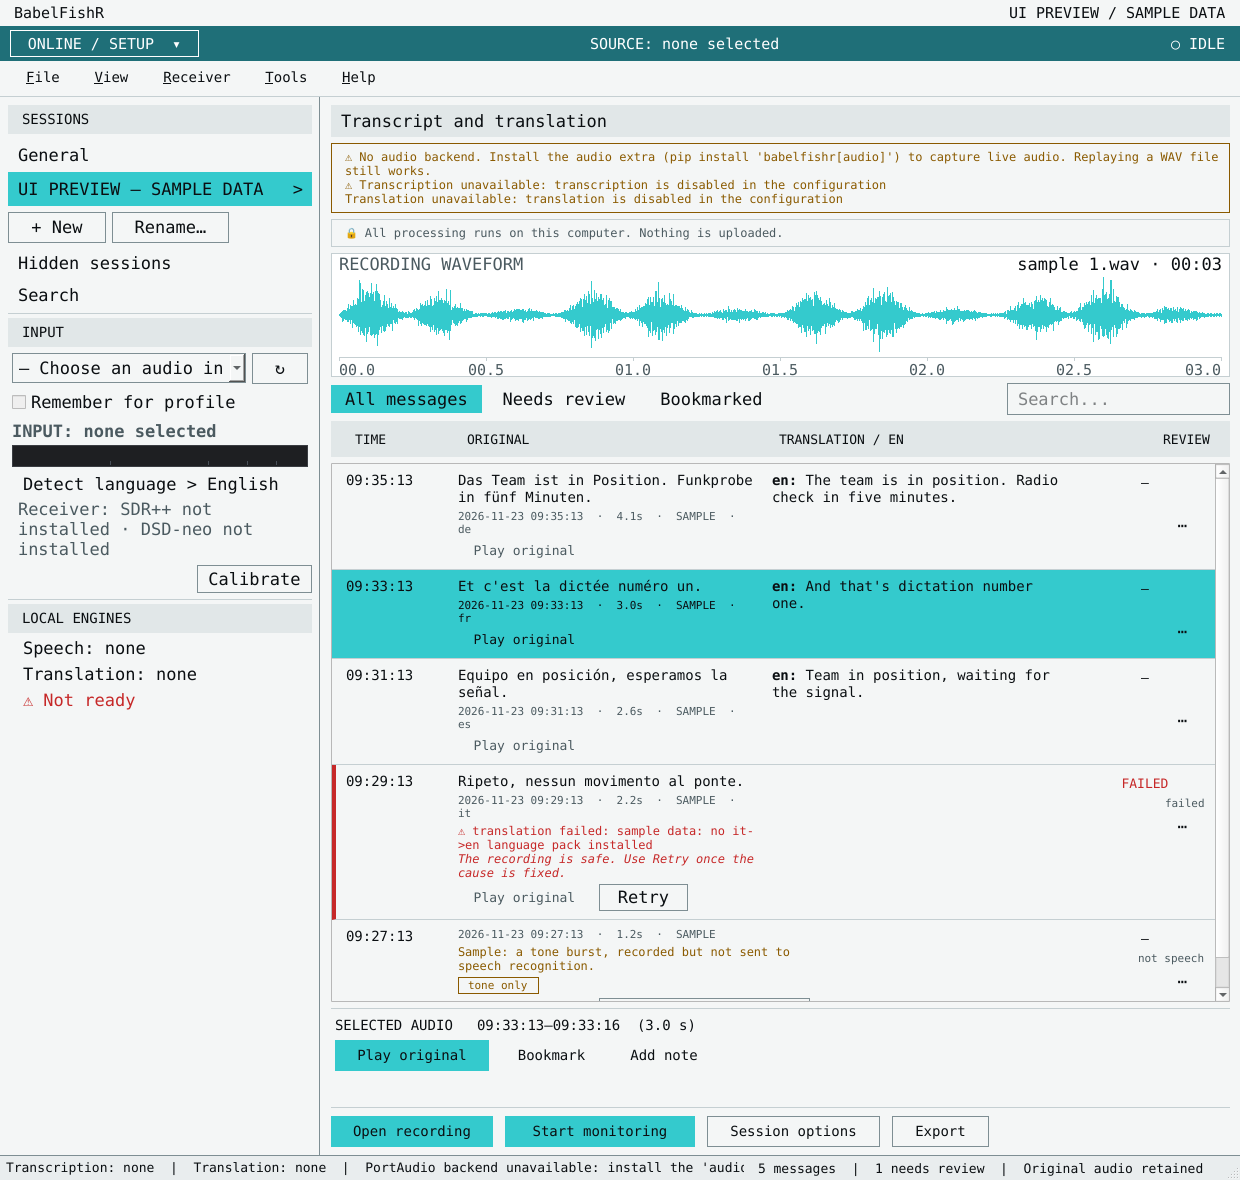
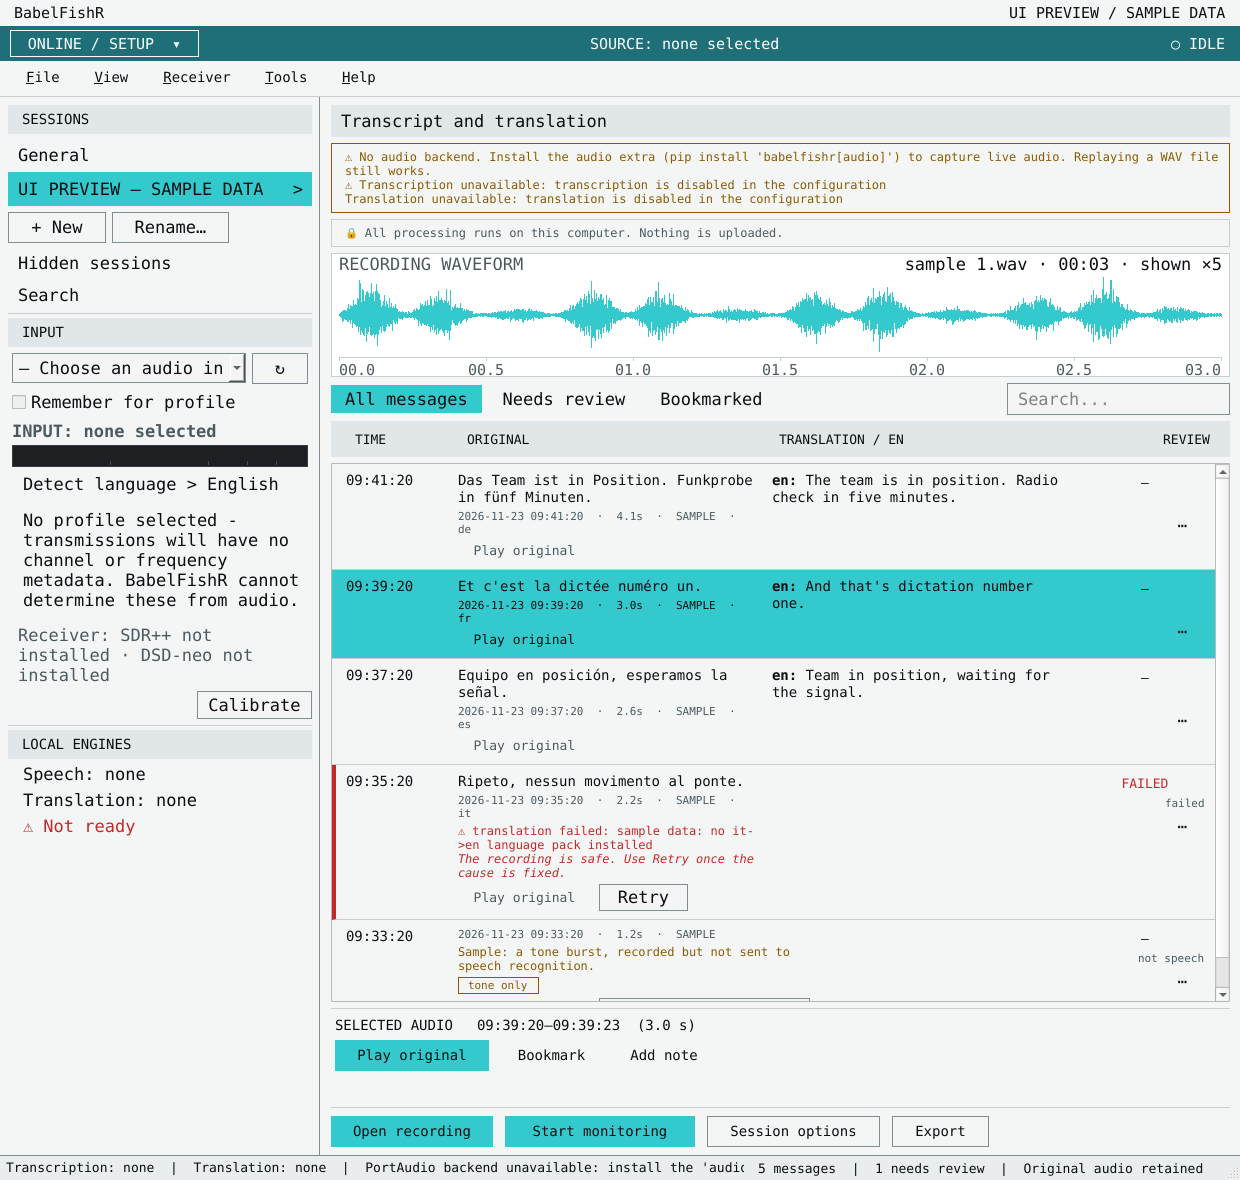
v5 console: fix the reviewer's findings (CANDIDATE: awaiting Mac validation)
A separate reviewer read fd4a046. Every confirmed finding is fixed here, each
with a test that fails without its fix.

1. MAJOR. Clicking a row's transcript did not select the row: the selectable
   label took the click and the focus, so Selected Audio and the waveform
   stayed on another message, and Play original played that one. The row now
   filters its children's left-button presses and focus-ins.
2. MAJOR. With Session Options closed by default, the radio-profile line was
   out of sight, including the "No profile selected - no channel or
   frequency metadata" warning. It is now mirrored in the left pane's INPUT
   section.
3. Pressing the filter already on screen rebuilt the view, which stopped
   playback and dropped the selection. It is now a no-op, and the buttons are
   re-synced even when the store is closing.
4. After TimelineView.set_playback(), the waveform and the panel still
   followed the old controller. TimelineView now emits playbackReplaced and
   the window follows it.
5. The display gain (up to x20 above -40 dBFS) changed how loud a clip looked
   without saying so. The title now reads "shown xN" whenever a clip is
   drawn larger than recorded.
6. A WAV shorter than its header showed the header's duration and a partial
   drawing with no explanation. The title now says "file shorter than its
   header: N s readable".
7. _bookmarked_results had a clause for removed messages that could never
[…]

Changed region(s): [[0.0, 0.4271, 0.2452, 0.7017], [0.7968, 0.2136, 0.9806, 0.2441], [0.7355, 0.2136, 0.7661, 0.2441]]

diff --git a/babelfishr/ui/main_window.py b/babelfishr/ui/main_window.py
@@ -197,7 +197,7 @@ class MainWindow(QtWidgets.QMainWindow):
         # Navigation: the window's own menu bar, below the band as in the
         # approved layout. menuBar() returns this bar, so every menu, action
         # and shortcut is the same object as before.
-        self._nav_bar = QtWidgets.QMenuBar()
+        self._nav_bar = QtWidgets.QMenuBar(central)
         root.addWidget(self._nav_bar)
 
         # -- the two panes --------------------------------------------------
@@ -298,6 +298,14 @@ class MainWindow(QtWidgets.QMainWindow):
         self.language_line.setObjectName("paneLine")
         self.language_line.setAccessibleName("Languages")
         left_layout.addWidget(self.language_line)
+        # The radio profile - or the warning that there is none, so no
+        # channel or frequency is stamped - is always in view, not only in
+        # the Session Options panel.
+        self.profile_line = QtWidgets.QLabel("")
+        self.profile_line.setObjectName("paneLine")
+        self.profile_line.setWordWrap(True)
+        self.profile_line.setAccessibleName("Radio profile")
+        left_layout.addWidget(self.profile_line)
         self.receiver_line = QtWidgets.QLabel("")
         self.receiver_line.setObjectName("mutedLine")
         self.receiver_line.setWordWrap(True)
@@ -408,9 +416,8 @@ class MainWindow(QtWidgets.QMainWindow):
         self.timeline.restoreRequested.connect(self._on_restore_message)
         self.timeline.selectionChanged.connect(self._on_selection_changed)
         self.timeline.selectedUpdated.connect(lambda _id: self._refresh_selected_panel())
-        self.waveform.set_playback(self.timeline.playback)
-        self.timeline.playback.changed.connect(
-            lambda _affected: self._refresh_selected_panel())
+        self._follow_playback(self.timeline.playback)
+        self.timeline.playbackReplaced.connect(self._follow_playback)
         right_layout.addWidget(self.timeline, 1)
 
         # Session Options: the existing panel, shown by its button.
@@ -590,6 +597,22 @@ class MainWindow(QtWidgets.QMainWindow):
         self.selected_panel = panel
         return panel
 
+    def _follow_playback(self, controller) -> None:
+        """The waveform marker and Selected Audio follow whichever playback
+        controller the list is using - including one installed later."""
+        previous = getattr(self, "_followed_playback", None)
+        if previous is not None and previous is not controller:
+            try:
+                previous.changed.disconnect(self._on_playback_changed_for_panel)
+            except (RuntimeError, TypeError):
+                pass
+        self._followed_playback = controller
+        self.waveform.set_playback(controller)
+        controller.changed.connect(self._on_playback_changed_for_panel)
+
+    def _on_playback_changed_for_panel(self, _affected) -> None:
+        self._refresh_selected_panel()
+
     def _wire_pane_links(self) -> None:
         """Left-pane links run the real View actions, nothing of their own."""
         self.hidden_sessions_link.setChecked(
@@ -599,9 +622,19 @@ class MainWindow(QtWidgets.QMainWindow):
         self.show_hidden_sessions_action.toggled.connect(
             self.hidden_sessions_link.setChecked)
         self.search_link.clicked.connect(self._focus_search)
-        self.filter_all.clicked.connect(self.show_all_action.trigger)
-        self.filter_review.clicked.connect(self.review_action.trigger)
-        self.filter_bookmarked.clicked.connect(self._show_bookmarked)
+        self.filter_all.clicked.connect(
+            lambda: self._filter_clicked("thread", self.show_all_action.trigger))
+        self.filter_review.clicked.connect(
+            lambda: self._filter_clicked("review", self.review_action.trigger))
+        self.filter_bookmarked.clicked.connect(
+            lambda: self._filter_clicked("bookmarked", self._show_bookmarked))
+
+    def _filter_clicked(self, kind: str, show) -> None:
+        """Pressing the filter already on screen changes nothing - rebuilding
+        it would stop playback and drop the selection for no reason."""
+        if self._view_kind != kind:
+            show()
+        self._sync_filters()
 
     def _build_header(self, row: QtWidgets.QHBoxLayout) -> None:
         """The teal status band: operating mode, source, monitoring state."""
@@ -2284,6 +2317,9 @@ class MainWindow(QtWidgets.QMainWindow):
         line = f"{source_language} > {target}"
         if self.language_line.text() != line:
             self.language_line.setText(line)
+        profile = self.channel_label.text()
+        if self.profile_line.text() != profile:
+            self.profile_line.setText(profile)
         code = self.target_language_box.currentData() or ""
         heading = f"TRANSLATION / {code.upper()}" if code else "TRANSLATION"
         if self.translation_heading.text() != heading:
@@ -2509,8 +2545,8 @@ class MainWindow(QtWidgets.QMainWindow):
         self._sync_filters()
 
     def _bookmarked_results(self):
-        return [tx for tx in self.app.search("", bookmarked=True)
-                if self._showing_removed() or not getattr(tx, "hidden", False)]
+        # Store.search never returns removed messages; nor does this view.
+        return self.app.search("", bookmarked=True)
 
     def _focus_search(self) -> None:
         self.search_field.setFocus(QtCore.Qt.ShortcutFocusReason)

diff --git a/tests/test_ui_v5_console.py b/tests/test_ui_v5_console.py
@@ -306,3 +306,82 @@ def test_the_window_resizes_down_to_its_minimum_and_back(qt_app, console):
         pump(qt_app)
         assert not window.grab().isNull()
     assert window.minimumSizeHint().width() <= 1000
+
+
+# ---- reviewer findings (each failed before its fix) -----------------------------
+
+def test_clicking_a_transcript_selects_its_row(qt_app, console):
+    """The selectable transcript label takes the click itself; the row must
+    still become the selected one, or Play original plays another message."""
+    from PySide6.QtTest import QTest
+
+    window, _, made = console
+    window.timeline.select(made[1].id)
+    QTest.mouseClick(window.timeline.bubble(made[0].id).original_label,
+                     QtCore.Qt.LeftButton)
+    pump(qt_app)
+    assert window.timeline.selected_id == made[0].id
+
+
+def test_the_radio_profile_line_is_visible_with_session_options_closed(console):
+    window, _, _ = console
+    window._refresh_context_lines()
+    assert not window.setup_box.isVisible()
+    assert window.profile_line.isVisible()
+    assert window.profile_line.text() == window.channel_label.text()
+    assert window.profile_line.text(), "the profile (or its absence) is stated"
+
+
+def test_pressing_the_current_filter_keeps_playback_and_selection(qt_app, console,
+                                                                 monkeypatch):
+    window, _, made = console
+    window.timeline.select(made[0].id)
+    stopped = []
+    monkeypatch.setattr(window.timeline.playback, "stop", lambda: stopped.append(1))
+    window.filter_all.click()                  # already the view on screen
+    pump(qt_app)
+    assert window.timeline.selected_id == made[0].id
+    assert stopped == []
+    assert window.filter_all.isChecked()
+
+
+def test_a_replaced_playback_controller_is_followed(qt_app, console):
+    from babelfishr.ui.playback import PlaybackController
+
+    window, _, _ = console
+    replacement = PlaybackController(parent=window)
+    window.timeline.set_playback(replacement)
+    assert window.waveform._controller is replacement
+
+
+def test_the_waveform_title_admits_display_gain_and_a_short_file(qt_app, tmp_path):
+    import struct
+    import wave
+
+    from babelfishr.audio.wavefile import write_wav
+    from babelfishr.testing import speech_like
+    from babelfishr.ui.waveform import RecordingWaveform
+
+    quiet = write_wav(str(tmp_path / "quiet.wav"), speech_like(1.0, 48_000, level_dbfs=-30), 48_000)
+    widget = RecordingWaveform()
+    widget.show_recording("q", quiet)
+    assert widget.wait_until_loaded(10.0)
+    assert "shown ×" in widget.title_text(), widget.title_text()
+
+    # A header promising 8000 frames over 1000 frames of data.
+    short = tmp_path / "short.wav"
+    with wave.open(str(short), "wb") as handle:
+        handle.setnchannels(1)
+        handle.setsampwidth(2)
+        handle.setframerate(8000)
+        handle.writeframes(struct.pack("<1000h", *([1000] * 1000)))
+    data = bytearray(short.read_bytes())
+    data[40:44] = struct.pack("<I", 8000 * 2)            # data chunk size
+    short.write_bytes(bytes(data))
+    widget.show_recording("s", str(short))
+    widget.wait_until_loaded(10.0)
+    if widget.state == "ready":
+        assert "file shorter than its header" in widget.title_text(), widget.title_text()
+    else:
+        assert widget.state == "error"                   # refused outright is also honest
+    widget.clear()

diff --git a/babelfishr/ui/timeline.py b/babelfishr/ui/timeline.py
@@ -311,6 +311,7 @@ class TransmissionBubble(QtWidgets.QFrame):
         bar.addStretch(1)
         self.playback_bar.hide()
         grid.addWidget(self.playback_bar, 1, 1, 1, 3)
+        self._watch_children_for_selection()
 
         self.update_from(tx)
 
@@ -565,6 +566,20 @@ class TransmissionBubble(QtWidgets.QFrame):
             self.selectRequested.emit(self.tx.id)
         super().mousePressEvent(event)
 
+    def _watch_children_for_selection(self) -> None:
+        """A selectable transcript label or a button takes the click and the
+        focus itself, so the row never saw them: watch the children too."""
+        for child in self.findChildren(QtWidgets.QWidget):
+            child.installEventFilter(self)
+
+    def eventFilter(self, watched, event) -> bool:  # noqa: N802
+        kind = event.type()
+        if kind == QtCore.QEvent.FocusIn or (
+                kind == QtCore.QEvent.MouseButtonPress
+                and event.button() == QtCore.Qt.LeftButton):
+            self.selectRequested.emit(self.tx.id)
+        return False
+
     def focusInEvent(self, event: QtGui.QFocusEvent) -> None:  # noqa: N802
         self.selectRequested.emit(self.tx.id)
         super().focusInEvent(event)
@@ -755,6 +770,8 @@ class TimelineView(QtWidgets.QScrollArea):
     #: The selected row's transmission changed in place (bookmark, review,
     #: text): the same row, new content.
     selectedUpdated = QtCore.Signal(str)
+    #: set_playback() installed a different controller.
+    playbackReplaced = QtCore.Signal(object)
 
     def __init__(self, parent: Optional[QtWidgets.QWidget] = None):
         super().__init__(parent)
@@ -841,6 +858,7 @@ class TimelineView(QtWidgets.QScrollArea):
         controller.positionChanged.connect(self._on_playback_position)
         for bubble in self._bubbles.values():
             bubble._player = controller
+        self.playbackReplaced.emit(controller)
 
     def _on_playback_changed(self, affected) -> None:
         # Expanding or collapsing a control bar changes a bubble's height, so

diff --git a/babelfishr/ui/waveform.py b/babelfishr/ui/waveform.py
@@ -369,8 +369,18 @@ class RecordingWaveform(QtWidgets.QWidget):
         if not self.current_path:
             return ""
         name = os.path.basename(self.current_path)
-        if self.envelope is not None:
-            return f"{name} · {format_duration(self.envelope.duration_s)}"
+        env = self.envelope
+        if env is not None:
+            text = f"{name} · {format_duration(env.duration_s)}"
+            # Say what the drawing is not: the file's true level, or all of it.
+            if env.truncated and (self.max_frames is None
+                                  or env.analysed_frames < min(env.frames, self.max_frames)):
+                readable = env.analysed_frames / float(env.sample_rate or 1)
+                text += f" · file shorter than its header: {readable:.1f} s readable"
+            gain = env.display_gain
+            if gain > 1.05:
+                text += f" · shown \u00d7{gain:.0f}"
+            return text
         return name
 
     def sizeHint(self) -> QtCore.QSize:  # noqa: N802

diff --git a/tests/test_ui_waveform.py b/tests/test_ui_waveform.py
@@ -155,7 +155,11 @@ def test_ready_state_title_and_accessibility(widget, tmp_path):
     assert widget.wait_until_loaded(5)
     assert widget.state == "ready" and widget.current_tx_id == "tx1"
     assert widget.envelope.frames == int(12.4 * SR)
-    assert widget.title_text() == "clip_a.wav · 00:12"
+    title = widget.title_text()
+    assert title.startswith("clip_a.wav · 00:12")
+    # Drawn louder than recorded? The title says so (reviewer finding 5).
+    gain = widget.envelope.display_gain
+    assert ("shown \u00d7" in title) == (gain > 1.05), (title, gain)
     assert "clip_a.wav" in widget.accessibleDescription()
     assert "00:12" in widget.accessibleDescription()
 

diff --git a/docs/ui-preview/README.md b/docs/ui-preview/README.md
@@ -50,7 +50,7 @@ is sample data.
 | Monitor · Sessions · Models · Settings · Help | The app's real menus: **File · View · Receiver · Tools · Help** (see deviations). |
 | SESSIONS list | The named Sessions (the former tab row), drawn as a list. Rename, colours, context menu and hide/remove work as before. |
 | Saved sessions · Search | **Hidden sessions** (View ▸ Show hidden Sessions) and **Search** (focuses the search field). |
-| INPUT | The real input chooser and status, the `source > target` language line, the receiver status line, and Calibrate. |
+| INPUT | The real input chooser and status, the `source > target` language line, the radio profile (or the warning that none is selected, so no channel or frequency is recorded), the receiver status line, and Calibrate. |
 | LOCAL ENGINES | `Speech:` / `Translation:` as the app selected them, plus field readiness (click for the report). |
 | RECORDING WAVEFORM | The selected message's **own** recording, drawn from its PCM samples (see below). |
 | All messages · Needs review · Bookmarked · Search | Show all, the Review queue, a Bookmarked view, and Search: all real store queries. They stay true as traffic arrives. |
@@ -67,7 +67,11 @@ is sample data.
   the file is.
 - **Fidelity:** each of up to 1,200 buckets keeps its true signed minimum
   and maximum, so transients survive and silence stays flat. A display gain
-  applies only above −40 dBFS, so hiss is never inflated into "signal".
+  (at most ×20) applies only above −40 dBFS, so hiss is never inflated into
+  "signal". When a clip is drawn larger than recorded, the title says so
+  ("shown ×N").
+- **Short files:** a file shorter than its own header is labelled "file
+  shorter than its header: N s readable".
 - **Off the UI thread:** loading runs on a background thread. A result for
   a message that is no longer selected is discarded.
 - **Honest states:** no selection, no recording, missing file, unreadable
@@ -77,6 +81,9 @@ is sample data.
   recording, so no session clock or session range is shown.
 - **Playback marker:** appears only while *this* recording is playing or
   paused, through the existing playback controller.
+- **Selection:** clicking anywhere in a row, including its transcript text
+  or its buttons, selects that row. Pressing the filter that is already on
+  screen does nothing, so playback and the selection survive.
 - **Read-only:** no click-to-seek. A truthful read-only waveform was
   preferred over interaction the playback service doesn't fully support
   yet.
